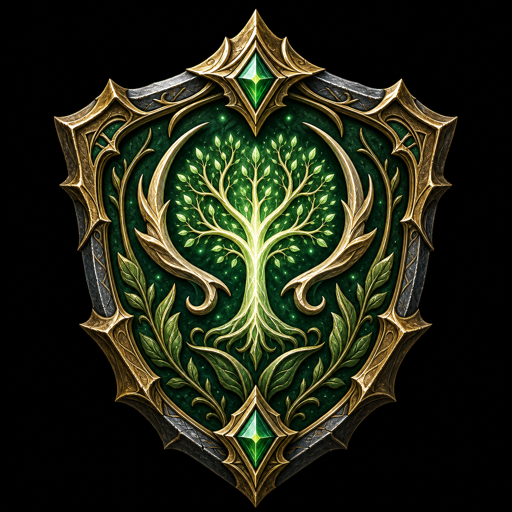
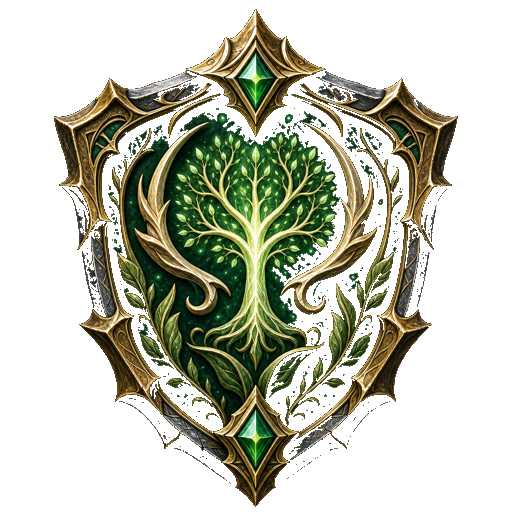
Remove elf crest background

diff --git a/service-worker.js b/service-worker.js
@@ -1,9 +1,9 @@
-const CACHE_NAME = "stick-war-pwa-v197-elf-crest";
+const CACHE_NAME = "stick-war-pwa-v198-elf-transparent";
 const APP_SHELL = [
   "./",
   "./index.html",
-  "./style.css?v=20260621-elf-crest",
-  "./game.js?v=20260621-elf-crest",
+  "./style.css?v=20260621-elf-transparent",
+  "./game.js?v=20260621-elf-transparent",
   "./manifest.webmanifest?v=20260620-swarm-crest-alpha",
   "./assets/icon.svg",
   "./assets/title/medieval-stick-title.png",
@@ -12,7 +12,7 @@ const APP_SHELL = [
   "./assets/factions/undead-crest.png",
   "./assets/factions/element-crest.png",
   "./assets/factions/swarm-crest.png?v=20260620-alpha",
-  "./assets/factions/elf-crest.png?v=20260621-alpha"
+  "./assets/factions/elf-crest.png?v=20260621-transparent"
 ];
 
 self.addEventListener("install", (event) => {

diff --git a/index.html b/index.html
@@ -13,7 +13,7 @@
     <link rel="manifest" href="./manifest.webmanifest?v=20260620-swarm-crest-alpha" />
     <link rel="icon" href="./assets/icon.svg" type="image/svg+xml" />
     <link rel="apple-touch-icon" href="./assets/icon.svg" />
-    <link rel="stylesheet" href="./style.css?v=20260621-elf-crest" />
+    <link rel="stylesheet" href="./style.css?v=20260621-elf-transparent" />
   </head>
   <body>
     <section id="factionSelect" class="faction-select" aria-label="选择阵营">
@@ -323,6 +323,6 @@
       </div>
     </section>
 
-    <script src="./game.js?v=20260621-elf-crest"></script>
+    <script src="./game.js?v=20260621-elf-transparent"></script>
   </body>
 </html>

diff --git a/game.js b/game.js
@@ -1,7 +1,7 @@
 const canvas = document.querySelector("#battlefield");
 const ctx = canvas.getContext("2d");
 const battlefieldWrap = document.querySelector(".battlefield-wrap");
-const APP_VERSION = "20260621-elf-crest";
+const APP_VERSION = "20260621-elf-transparent";
 
 const factionSelect = document.querySelector("#factionSelect");
 const factionButtons = [...document.querySelectorAll(".faction-card")];

diff --git a/style.css b/style.css
@@ -852,7 +852,7 @@ body {
 }
 
 .elf .crest {
-  background-image: url("./assets/factions/elf-crest.png?v=20260621-alpha");
+  background-image: url("./assets/factions/elf-crest.png?v=20260621-transparent");
 }
 
 button {